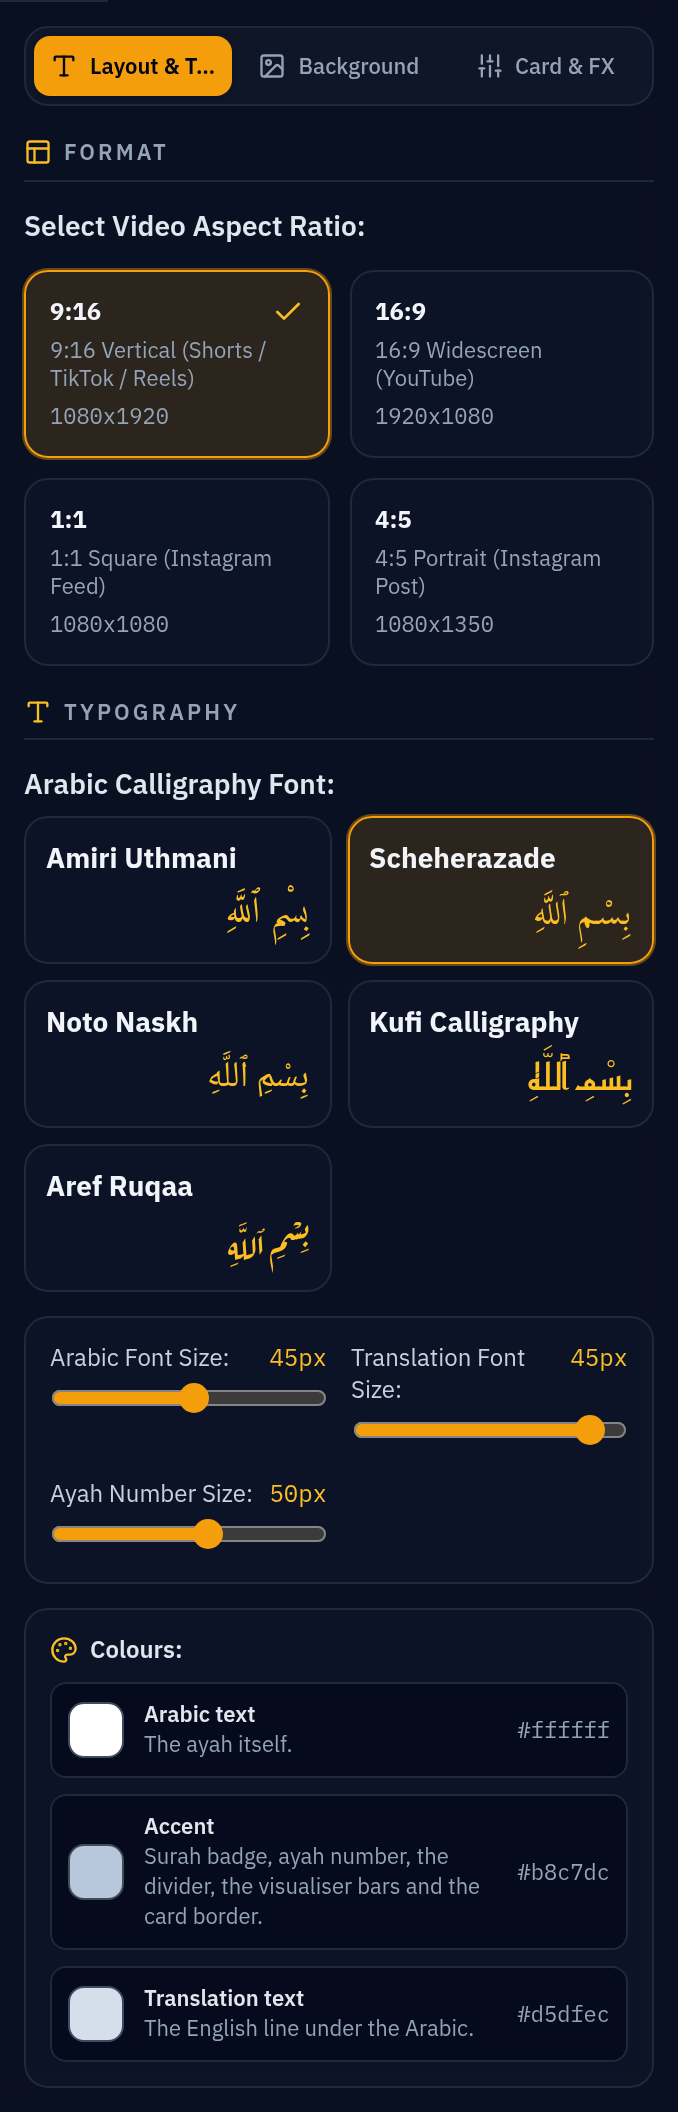
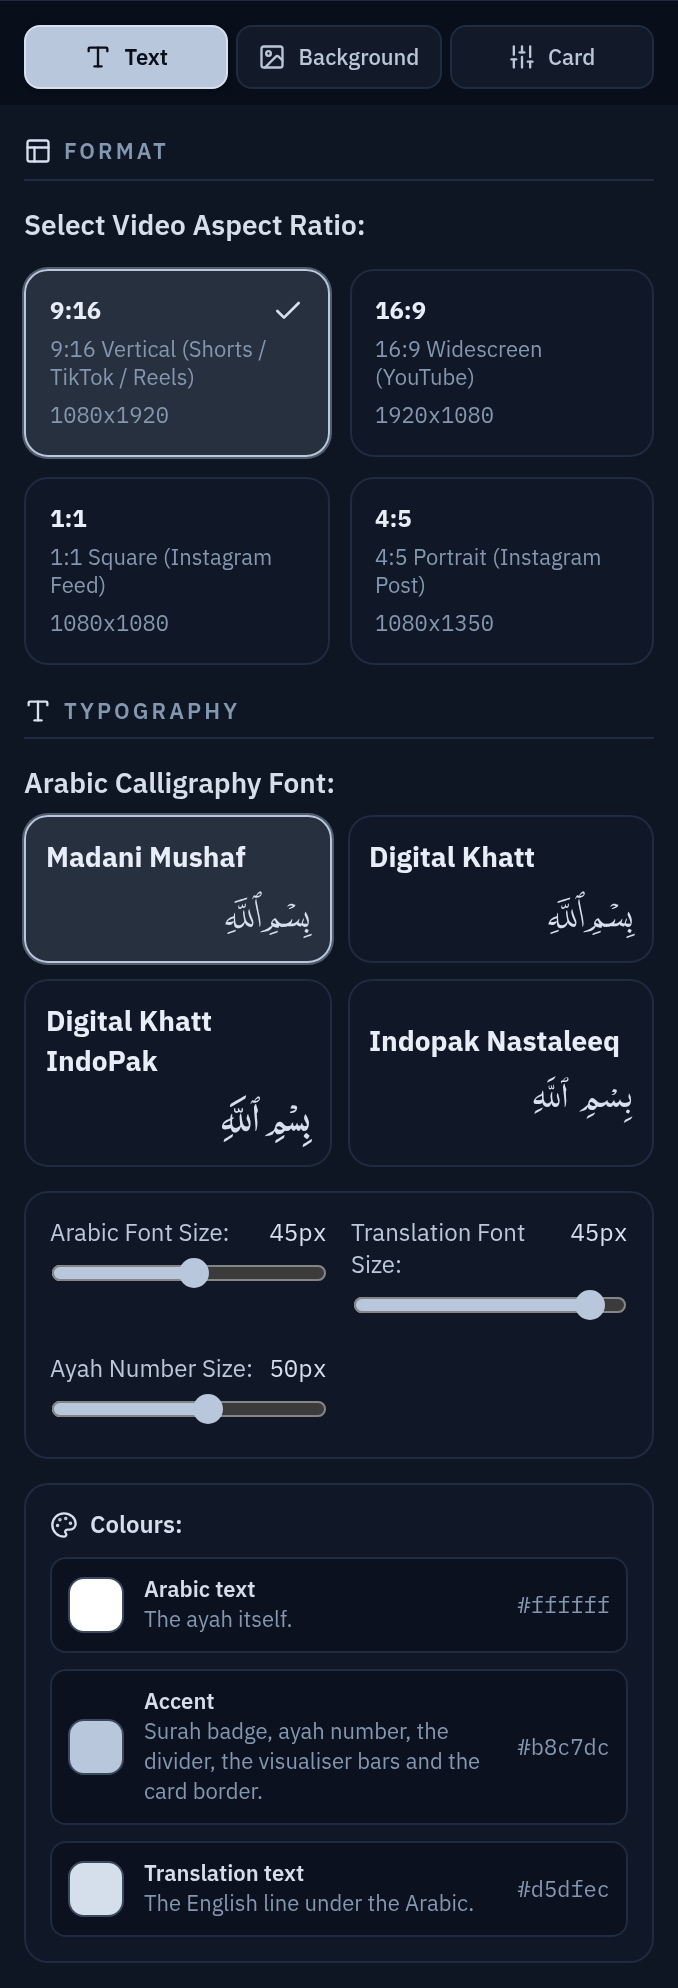
Show the fonts the studio actually offers
The Layout screenshots and the README still showed the five Google faces removed when the mushaf fonts arrived.

diff --git a/README.ar.md b/README.ar.md
@@ -131,7 +131,8 @@
   أسماؤها بدلًا منها، وهي على الأقل تقول ماذا تختار مجددًا.
 - **<kbd>؟</kbd> تعرض كل اختصارات لوحة المفاتيح.**
 - خطوط وأحجام وألوان وظلال وعتامة بطاقة وشارة سورة وعلامة مائية، كلها قابلة للضبط. والخط العربي
-  الافتراضي هو Scheherazade New ويصغر تلقائيًا ليبقى داخل البطاقة. ويقدّم كل لون إحدى عشرة عيّنة
+  الافتراضي هو رسم المصحف المدني نفسه (خطوط QPC V2 من QUL، خط لكل صفحة مطبوعة)، ومعه Digital Khatt
+  وDigital Khatt IndoPak وIndopak Nastaleeq بدائل، ويصغر تلقائيًا ليبقى داخل البطاقة. ويقدّم كل لون إحدى عشرة عيّنة
   سريعة، ومنزلقات لدرجة اللون والتشبّع والسطوع، وحقلًا ست عشريًا، ومنتقي ألوان النظام في أول خلية من
   الشبكة.
 <p align="center">

diff --git a/README.md b/README.md
@@ -149,7 +149,9 @@ those are structural properties of the method, not tuning. See [docs/ALIGNMENT.m
   *video* is untouched either way — the watermark, the surah badge and the translation are your
   content, not interface copy.
 - Configurable fonts, sizes, colours, shadows, card opacity, surah badge, and watermark.
-  Arabic defaults to Scheherazade New and auto-shrinks to stay inside the card. Each colour
+  Arabic defaults to the Madani mushaf's own glyphs (QUL's QPC V2 fonts, one per printed page),
+  with Digital Khatt, Digital Khatt IndoPak and Indopak Nastaleeq as alternatives, and
+  auto-shrinks to stay inside the card. Each colour
   offers eleven swatches, hue/saturation/lightness sliders, a hex field, and the system colour
   picker in the last cell of the grid.
 <p align="center">
